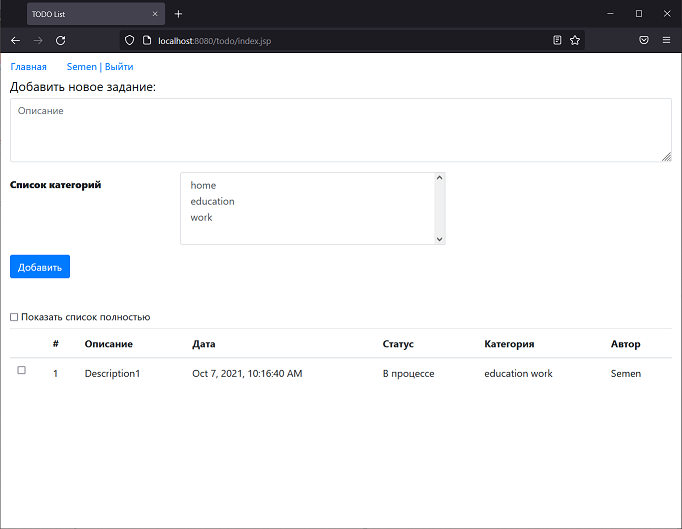
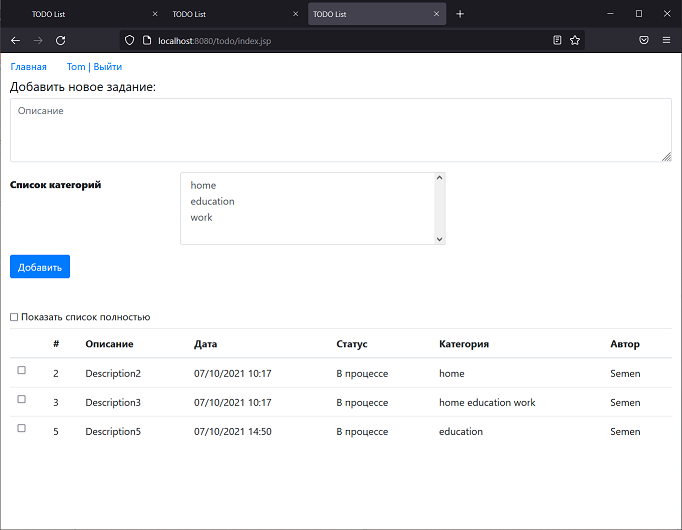
5. Date [#331992]

diff --git a/src/main/java/ru/job4j/todo/servlets/ItemServlet.java b/src/main/java/ru/job4j/todo/servlets/ItemServlet.java
@@ -13,11 +13,10 @@ import javax.servlet.http.HttpServletResponse;
 import java.io.IOException;
 import java.io.OutputStream;
 import java.nio.charset.StandardCharsets;
-import java.util.Date;
 import java.util.List;
 
 public class ItemServlet extends HttpServlet {
-    private final static Gson GSON = new GsonBuilder().create();
+    private final static Gson GSON = new GsonBuilder().setDateFormat("dd/MM/yyyy HH:mm").create();
     private final HbmStore store = HbmStore.instOf();
 
     @Override
@@ -45,7 +44,7 @@ public class ItemServlet extends HttpServlet {
             String[] cIds = req.getParameterValues("category");
             String description = req.getParameter("Text");
             User user = (User) req.getSession().getAttribute("user");
-            store.add(Item.itemOf(0, description, new Date(), false, user), cIds);
+            store.add(Item.itemOf(0, description, user), cIds);
         }
         resp.sendRedirect(req.getContextPath() + "/index.jsp");
     }

diff --git a/src/main/java/ru/job4j/todo/model/Item.java b/src/main/java/ru/job4j/todo/model/Item.java
@@ -10,6 +10,8 @@ public class Item {
     @GeneratedValue(strategy = GenerationType.IDENTITY)
     private int id;
     private String description;
+
+    @Temporal(TemporalType.TIMESTAMP)
     private Date created;
     private boolean done;
 
@@ -24,12 +26,12 @@ public class Item {
         catList.add(category);
     }
 
-    public static Item itemOf(int id, String description, Date created, boolean done, User user) {
+    public static Item itemOf(int id, String description, User user) {
         Item item = new Item();
         item.id = id;
         item.description = description;
-        item.created = created;
-        item.done = done;
+        item.created = new Date(System.currentTimeMillis());
+        item.done = false;
         item.user = user;
         return item;
     }

diff --git a/src/main/java/ru/job4j/todo/store/HbmStore.java b/src/main/java/ru/job4j/todo/store/HbmStore.java
@@ -68,7 +68,9 @@ public class HbmStore {
 
     public List<Item> findAll() {
         return this.tx(session -> session
-                .createQuery("select distinct i from Item i join fetch i.catList").list());
+                .createQuery(
+                        "select distinct i from Item i join fetch i.catList order by i.id asc")
+                .list());
     }
 
     public List<User> findAllUsers() {
